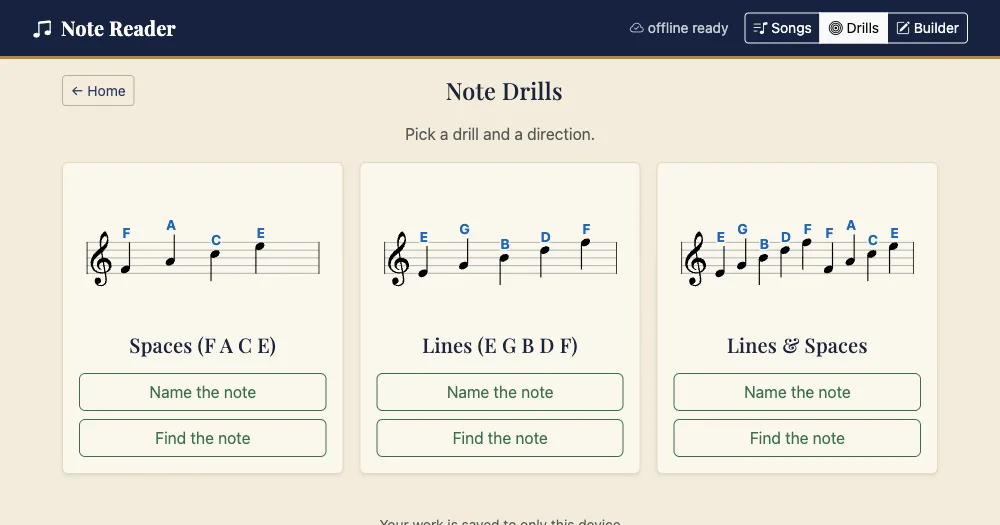
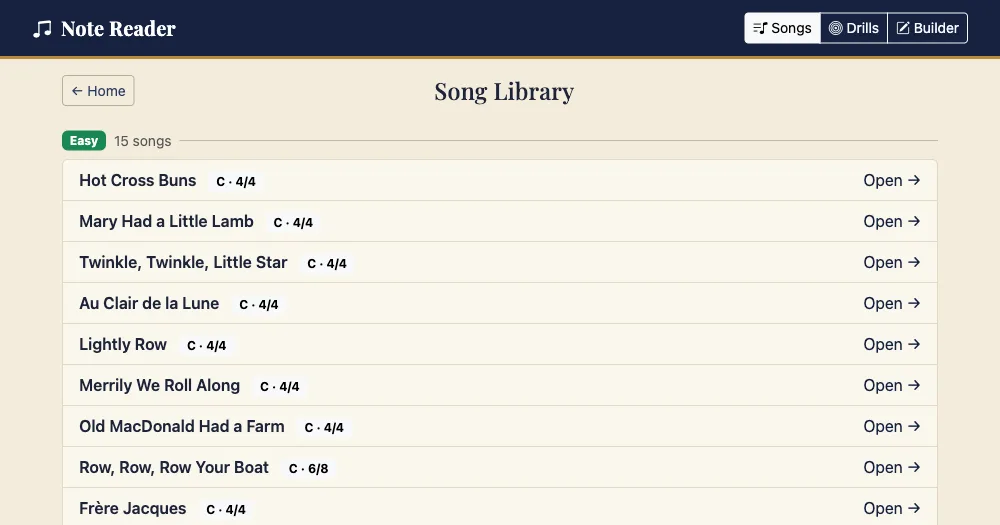
Refresh Note Reader build notes: tiered library and show-position feature

diff --git a/projects/note-reader/index.html b/projects/note-reader/index.html
@@ -31,6 +31,8 @@ description: "Note Reader is an offline-first PWA for learning to read music: ta
         <li><a href="#click-to-place">Click-to-place notation</a></li>
         <li><a href="#glyphs">Sizing music glyphs</a></li>
         <li><a href="#guitar-octave">The guitar octave that broke the fretboard</a></li>
+        <li><a href="#library">A library of 45, and the bugs the audit caught</a></li>
+        <li><a href="#show-position">Showing where to play each note</a></li>
         <li><a href="#links">Links</a></li>
       </ol>
     </nav>
@@ -115,6 +117,36 @@ description: "Note Reader is an offline-first PWA for learning to read music: ta
       </div>
 
       <p>The keyboard had its own orientation problem. Showing all 88 keys is too small on a phone, so it shows a window around the drilled notes, and a window of white and black keys with no labels gives you nothing to anchor on. Labeling every C cluttered it, so only middle C is marked, with a faint tint and a "Middle C" label under it. From there you can count.</p>
+    </section>
+
+    <!-- Library -->
+    <section id="library" class="mb-5">
+      <h2 class="fw-bold mb-4"><i class="bi bi-collection-fill text-primary me-2"></i>A library of 45, and the bugs the audit caught</h2>
+
+      <p>The library started with eight songs. The teacher wanted a real progression, so I expanded it to 45 public-domain melodies across three tiers: Easy (stepwise tunes in a small range, quarter and half notes), Intermediate (eighths, dotted rhythms, wider leaps), and Advanced (accidentals, minor keys, classical themes from Bach, Vivaldi, and Bizet). Fifteen per tier, single-line treble, the same JSON shape every other piece uses, with a <code>level</code> field for grouping.</p>
+
+      <p>Transcribing 45 melodies by hand is where errors hide, so I wrote a script that rendered every song offscreen and checked two things: that it drew without throwing, and that each measure's note durations summed to its time signature. The audit earned its keep on the first run.</p>
+
+      <div class="callout-box">
+        <h6><i class="bi bi-exclamation-octagon-fill me-2"></i>Every accidental was silently wrong</h6>
+        <p class="mb-0">I had written sharps and flats as <code>fs/4</code> and <code>bf/4</code>. VexFlow wants <code>f#/4</code> and <code>bb/4</code>, and it threw <code>Invalid key name: FS</code> on every song that used one. About a dozen of the intermediate and advanced songs failed to render until a one-line search-and-replace fixed the notation across the file.</p>
+      </div>
+
+      <p>The second check flagged 16 songs whose beats didn't divide into clean bars. Some were real pickup tunes, where a melody starts on an upbeat and my naive bar-splitter mis-divided everything after it. Others were my own miscounts, a measure with five beats in a four-four song. I reworked all 16 so every bar fills exactly, favoring a complete, readable measure over note-for-note fidelity to a particular recording. A few advanced themes came out simpler than their concert versions, which suits a tool a beginner reads from. The re-run came back clean: 45 songs, 15 per tier, zero render failures, zero short bars.</p>
+    </section>
+
+    <!-- Show position -->
+    <section id="show-position" class="mb-5">
+      <h2 class="fw-bold mb-4"><i class="bi bi-pin-map-fill text-danger me-2"></i>Showing where to play each note</h2>
+
+      <p>Reading a note's name is one skill. Finding it on your instrument is another, and a student learning guitar or piano has to connect the two. So the player grew a "Show position" toggle. Turn it on and a diagram appears under the staff: a piano keyboard, or a guitar fretboard, depending on which instrument is selected. As a song plays, the diagram lights up where each note is played. Tap a single note and it shows that one spot.</p>
+
+      <p>The drills already had an 88-key piano and a horizontal fretboard, so the player reuses both modules instead of growing its own. Guitar shows the first-position fingering only, frets zero to four or an open string, which is what a beginner is taught to read first. The octave transposition I had fought through earlier paid off here: tap C on the staff and the fretboard marks the A string at the third fret, the spot that sounds a written C on a guitar.</p>
+
+      <div class="callout-box">
+        <h6><i class="bi bi-toggles me-2"></i>Off by default, separate from note names</h6>
+        <p class="mb-0">The staff stays clean unless a student asks for help. "Show position" and the existing "Show names while playing" are independent switches, both off to start, so you turn on the one aid you want. Building it into the shared player meant it showed up in the song library and the composition builder's Play mode from the same code.</p>
+      </div>
     </section>
 
     <!-- Links -->
